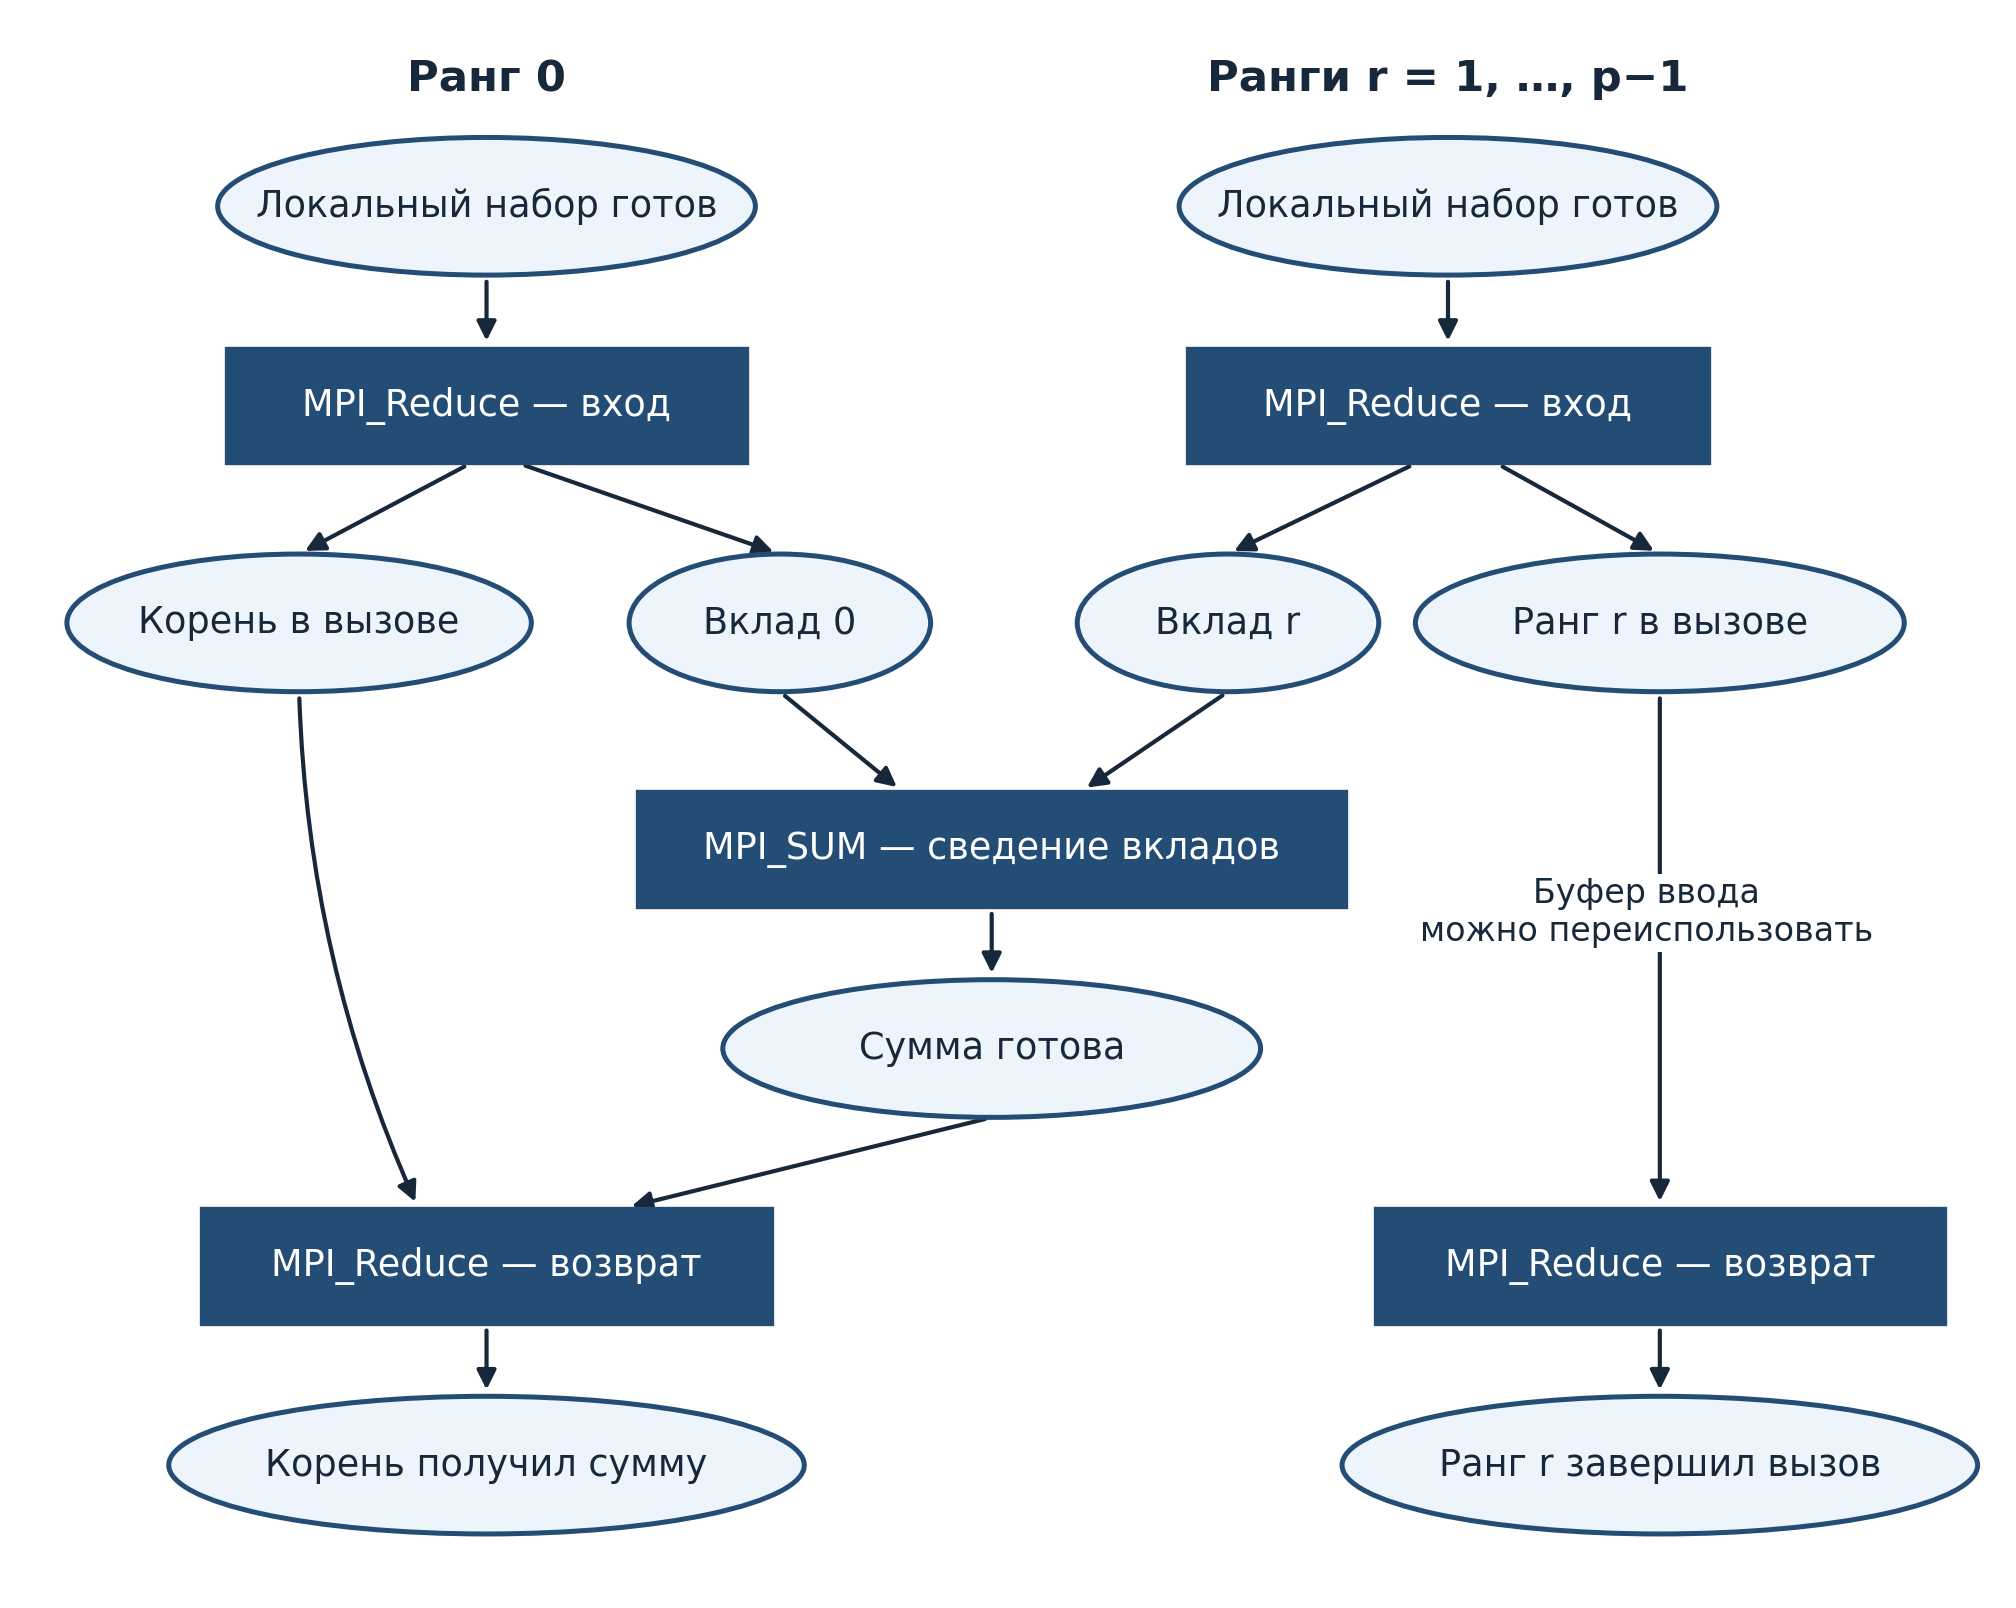
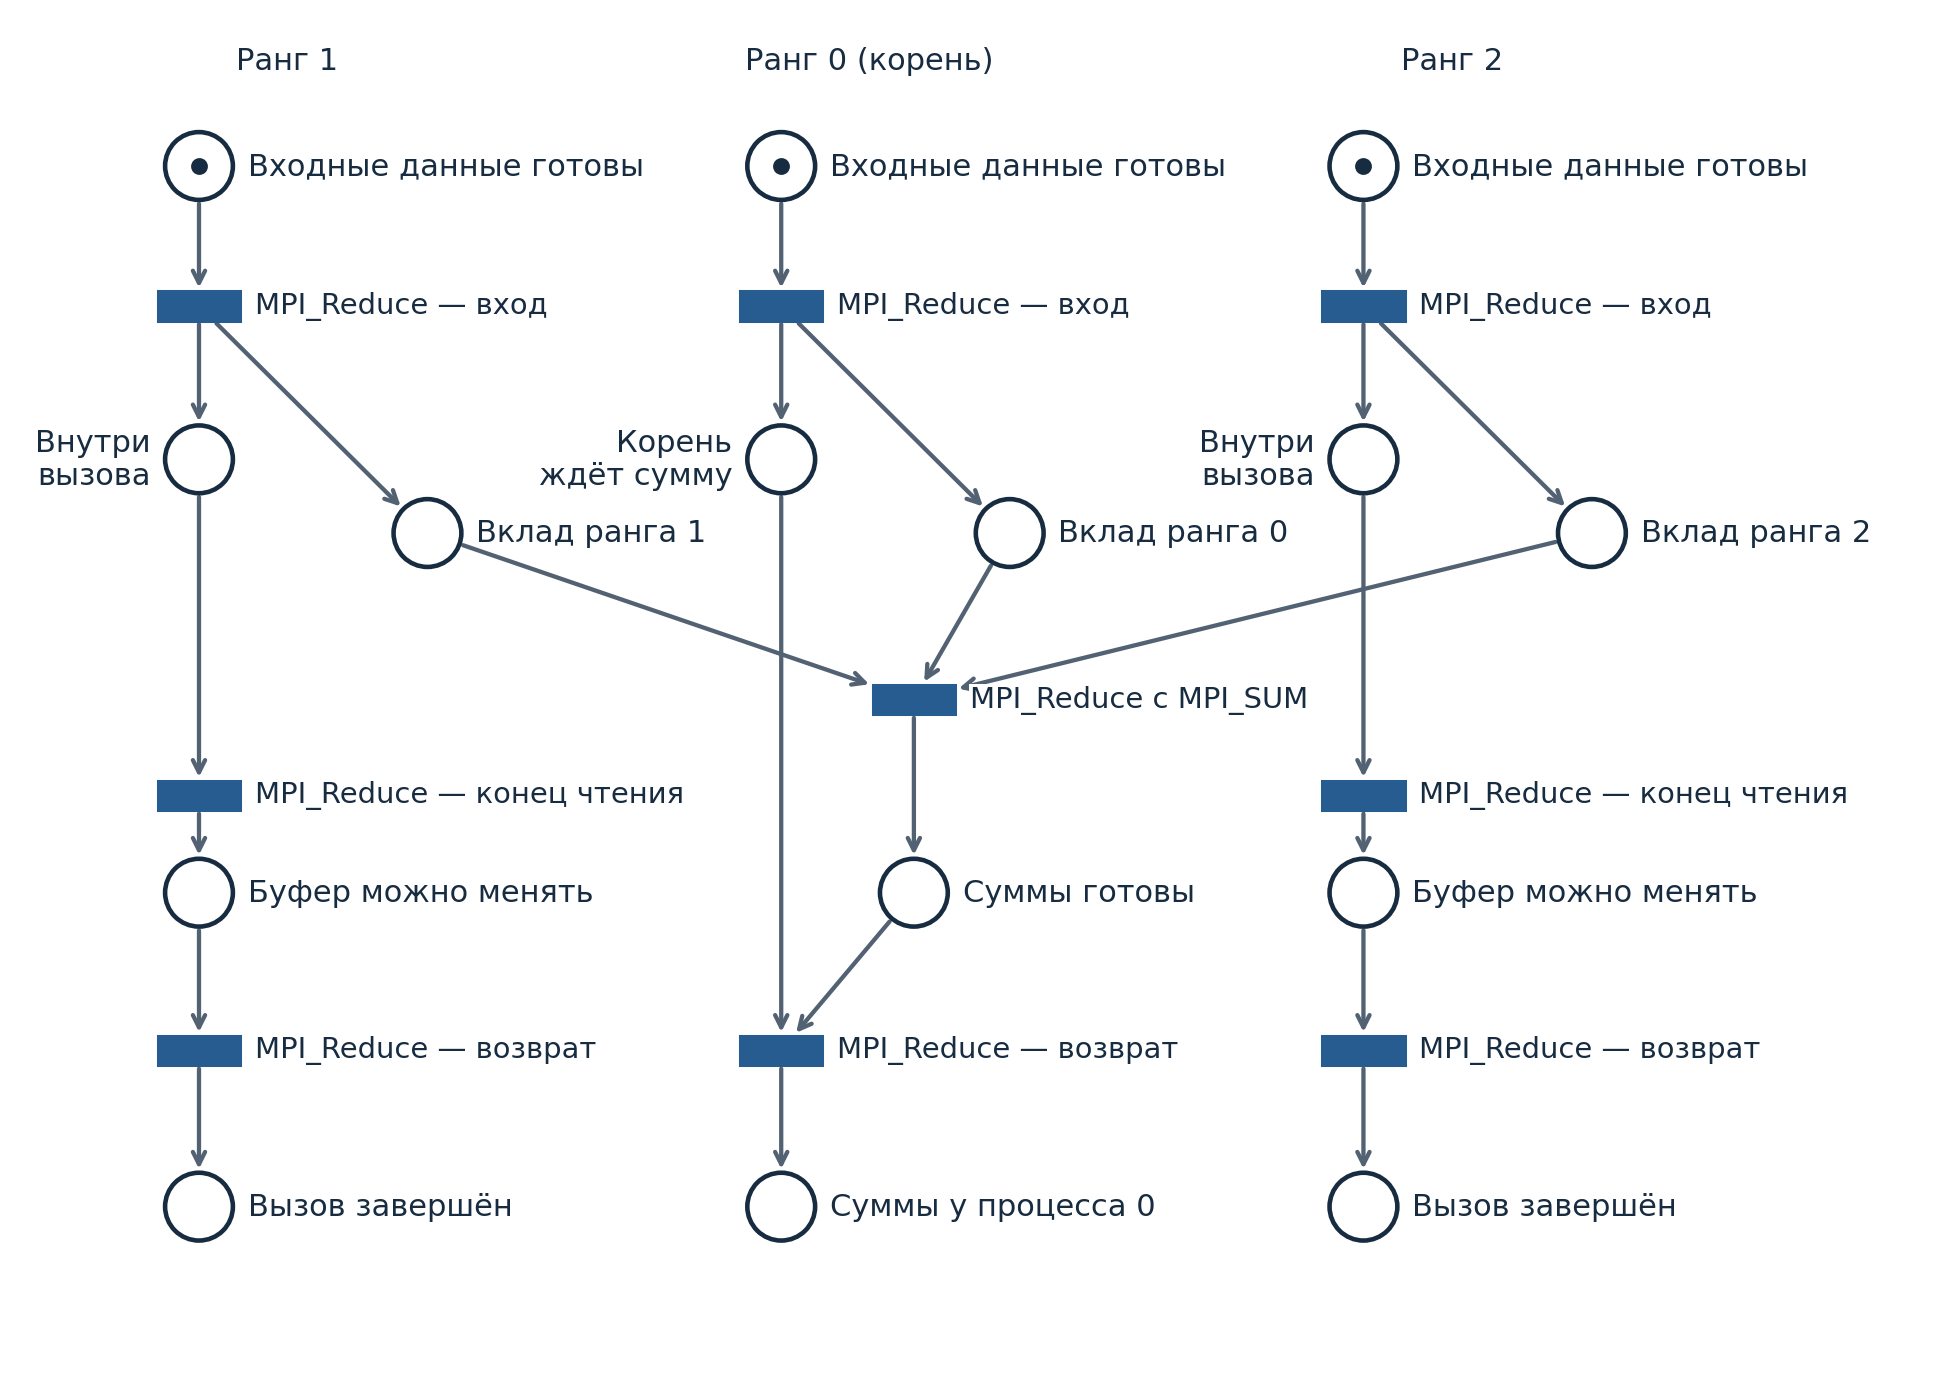
added

diff --git a/lab3/draw_petri.py b/lab3/draw_petri.py
@@ -1,119 +1,109 @@
-"""Draw the colored Petri net of the timed part of the program."""
+"""Сеть Петри коллективного суммирования в ПР № 3."""
 from pathlib import Path
 
 import matplotlib
+
 matplotlib.use("Agg")
 import matplotlib.pyplot as plt
-from matplotlib.patches import Ellipse, FancyArrowPatch, Rectangle
+from matplotlib.patches import Circle, Rectangle
 
 OUT = Path(__file__).resolve().parent / "results"
-BLUE = "#244d76"
-INK = "#17283b"
+RANKS = ((1, 1.35), (0, 5.30), (2, 9.25))
+INK = "#172c40"
+BLUE = "#275c90"
 
 
-def canvas(ymax, size):
-    figure, axes = plt.subplots(figsize=size)
-    axes.set(xlim=(0, 12), ylim=(0, ymax))
-    axes.axis("off")
-    return figure, axes
+def draw(filename, height, positions, transitions, edges, marking, labels, notes, left_labels):
+    # Как в ПР № 1 и № 2: координаты, круги, прямоугольники и дуги.
+    width = 13.2
+    fig, ax = plt.subplots(figsize=(width * 0.67, height * 0.67))
+    fig.subplots_adjust(left=0, right=1, bottom=0, top=1)
+    ax.set(xlim=(0, width), ylim=(0, height), aspect="equal")
+    ax.axis("off")
+
+    nodes = {}
+    for name, (x, y) in positions.items():
+        circle = Circle((x, y), .23, facecolor="white", edgecolor=INK, lw=1.5, zorder=3)
+        ax.add_patch(circle)
+        nodes[name] = circle
+        if marking.get(name) == 1:
+            ax.plot(x, y, "o", color=INK, markersize=4.5, zorder=4)
+        if marking.get(name, 0) > 1:
+            ax.text(x, y, str(marking[name]), ha="center", va="center", zorder=4)
+        if name in left_labels:
+            ax.text(x - .33, y, labels[name], ha="right", va="center", fontsize=10, color=INK)
+        else:
+            ax.text(x + .33, y, labels[name], va="center", fontsize=10, color=INK)
+
+    for name, (x, y, label) in transitions.items():
+        bar = Rectangle((x - .28, y - .1), .56, .2, color=BLUE, zorder=3)
+        ax.add_patch(bar)
+        nodes[name] = bar
+        ax.text(x + .38, y, label, va="center", fontsize=9.5, color=INK,
+                bbox=dict(facecolor="white", edgecolor="none", pad=.3), zorder=5)
+
+    coords = positions | {name: (x, y) for name, (x, y, _) in transitions.items()}
+    for source, target in edges:
+        ax.annotate("", xy=coords[target], xytext=coords[source],
+                    arrowprops=dict(arrowstyle="->", color="#526273", lw=1.4,
+                                    patchA=nodes[source], patchB=nodes[target],
+                                    shrinkA=1, shrinkB=1), zorder=2)
+
+    for x, y, label in notes:
+        ax.text(x, y, label, ha="center", va="center", fontsize=10, color=INK)
+
+    fig.savefig(OUT / filename, dpi=220)
+    plt.close(fig)
 
 
-def place(axes, x, y, label, width=3.3, initial=False):
-    axes.add_patch(Ellipse((x, y), width, 0.76, fc="#edf4fb",
-                           ec=BLUE, linewidth=1.5, zorder=3))
-    if initial:
-        label += "  ●"
-    axes.text(x, y, label, ha="center", va="center", color=INK, fontsize=11, zorder=4)
+def reduction():
+    positions = {"sum_ready": (6.2, 3.34)}
+    transitions = {"sum": (6.2, 4.65, "MPI_Reduce с MPI_SUM")}
+    edges = [("sum", "sum_ready")]
+    marking = {}
+    labels = {"sum_ready": "Суммы готовы"}
+    notes = []
+    left_labels = set()
 
+    for rank, x in RANKS:
+        ready, waiting, contribution, done, buffer_available = (
+            f"{state}_{rank}" for state in
+            ("ready", "waiting", "contribution", "done", "buffer_available")
+        )
+        enter, release, ret = (f"{step}_{rank}" for step in ("enter", "release", "return"))
+        positions.update({
+            ready: (x, 8.27), waiting: (x, 6.28),
+            contribution: (x + 1.55, 5.78), done: (x, 1.21),
+        })
+        labels.update({
+            ready: "Входные данные готовы",
+            waiting: "Корень\nждёт сумму" if rank == 0 else "Внутри\nвызова",
+            contribution: f"Вклад ранга {rank}",
+            done: "Суммы у процесса 0" if rank == 0 else "Вызов завершён",
+        })
+        left_labels.add(waiting)
+        transitions[enter] = (x, 7.32, "MPI_Reduce — вход")
+        transitions[ret] = (x, 2.27, "MPI_Reduce — возврат")
+        marking[ready] = 1
+        title = f"Ранг {rank}" + (" (корень)" if rank == 0 else "")
+        notes.append((x + .6, 8.98, title))
+        edges.extend([
+            (ready, enter), (enter, waiting), (enter, contribution),
+            (contribution, "sum"), (ret, done),
+        ])
+        if rank == 0:
+            edges.extend([(waiting, ret), ("sum_ready", ret)])
+        else:
+            positions[buffer_available] = (x, 3.34)
+            labels[buffer_available] = "Буфер можно менять"
+            transitions[release] = (x, 4.0, "MPI_Reduce — конец чтения")
+            edges.extend([
+                (waiting, release), (release, buffer_available), (buffer_available, ret),
+            ])
 
-def transition(axes, x, y, label, width=3.2):
-    axes.add_patch(Rectangle((x-width/2, y-0.32), width, 0.64,
-                             fc=BLUE, ec=BLUE, zorder=3))
-    axes.text(x, y, label, ha="center", va="center", color="white", fontsize=11, zorder=4)
-
-
-def arrow(axes, start, end, label="", bend=0, label_position=None):
-    axes.add_patch(FancyArrowPatch(start, end, arrowstyle="-|>",
-                                  mutation_scale=12, color=INK, linewidth=1.25,
-                                  connectionstyle=f"arc3,rad={bend}", zorder=2))
-    if label:
-        axes.text(*label_position, label, ha="center", va="center", fontsize=10,
-                  color=INK, bbox=dict(facecolor="white", edgecolor="none", pad=1))
-
-
-def save(figure, filename):
-    figure.subplots_adjust(left=0.015, right=0.985, top=0.99, bottom=0.01)
-    figure.savefig(OUT / filename, dpi=240)
-    plt.close(figure)
-
-
-def draw_cycle():
-    figure, axes = canvas(11.4, (8.4, 8.3))
-    x = 5.5
-    place(axes, x, 10.8, "Готов к итерации (r, k)", initial=True)
-    transition(axes, x, 9.75, "MPI_Barrier — вход")
-    place(axes, x, 8.7, "Ждёт в MPI_Barrier")
-    transition(axes, x, 7.65, "Все процессы вошли")
-    place(axes, x, 6.6, "Выход разрешён")
-    transition(axes, x, 5.55, "MPI_Barrier — возврат")
-    place(axes, x, 4.5, "Блоки готовы к сумме")
-    transition(axes, x, 3.45, "MPI_Reduce / MPI_SUM\nподсеть на рисунке 2", width=3.7)
-    place(axes, x, 2.4, "Измерение завершено")
-    transition(axes, x, 1.35, "Следующая итерация")
-    transition(axes, 9.6, 2.4, "Завершить цикл")
-    place(axes, 9.6, 1.25, "Готов к MPI_Reduce\nс MPI_MAX", width=3.35)
-    for top, bottom in zip((10.8, 9.75, 8.7, 7.65, 6.6, 5.55, 4.5),
-                           (9.75, 8.7, 7.65, 6.6, 5.55, 4.5, 3.45)):
-        arrow(axes, (x, top-.38), (x, bottom+.38))
-    arrow(axes, (x, 3.07), (x, 2.78), "MPI_Wtime: стоп", label_position=(7.2, 2.94))
-    arrow(axes, (x, 2.02), (x, 1.67), "k < 9", label_position=(6.25, 1.85))
-    arrow(axes, (7.15, 2.4), (8.0, 2.4), "k = 9", label_position=(7.58, 2.68))
-    arrow(axes, (9.6, 2.08), (9.6, 1.63))
-    arrow(axes, (3.9, 1.35), (1.4, 1.35))
-    arrow(axes, (1.4, 1.35), (1.4, 10.8))
-    arrow(axes, (1.4, 10.8), (3.85, 10.8), "k + 1", label_position=(2.6, 11.05))
-    axes.text(8.7, 7.65, "По одной метке\nот каждого ранга r", va="center", ha="center", fontsize=11)
-    axes.text(8.65, 4.5, "MPI_Wtime: старт,\nзатем локальная сумма¹", va="center",
-              ha="center", color=INK, fontsize=11)
-    axes.text(0.35, 0.4, "¹ Только в опытах с фиксированным числом наборов.", fontsize=10)
-    save(figure, "petri-cycle.png")
-
-
-def draw_reduce():
-    figure, axes = canvas(8.7, (8.4, 6.7))
-    for x, rank in ((2.8, "Ранг 0"), (8.7, "Ранги r = 1, …, p−1")):
-        axes.text(x, 8.35, rank, ha="center", va="center", color=INK,
-                  fontsize=13, weight="bold")
-        place(axes, x, 7.65, "Локальный набор готов")
-        transition(axes, x, 6.55, "MPI_Reduce — вход")
-        arrow(axes, (x, 7.27), (x, 6.87))
-    place(axes, 1.65, 5.35, "Корень в вызове", width=2.85)
-    place(axes, 4.6, 5.35, "Вклад 0", width=1.85)
-    place(axes, 7.35, 5.35, "Вклад r", width=1.85)
-    place(axes, 10, 5.35, "Ранг r в вызове", width=3)
-    arrow(axes, (2.7, 6.23), (1.65, 5.73))
-    arrow(axes, (3.0, 6.23), (4.6, 5.73))
-    arrow(axes, (8.5, 6.23), (7.35, 5.73))
-    arrow(axes, (9.0, 6.23), (10, 5.73))
-    transition(axes, 5.9, 4.1, "MPI_SUM — сведение вкладов", width=4.35)
-    arrow(axes, (4.6, 4.97), (5.35, 4.42))
-    arrow(axes, (7.35, 4.97), (6.45, 4.42))
-    place(axes, 5.9, 3.0, "Сумма готова")
-    arrow(axes, (5.9, 3.78), (5.9, 3.38))
-    transition(axes, 2.8, 1.8, "MPI_Reduce — возврат", width=3.5)
-    transition(axes, 10, 1.8, "MPI_Reduce — возврат", width=3.5)
-    arrow(axes, (1.65, 4.97), (2.38, 2.12), bend=.1)
-    arrow(axes, (5.9, 2.62), (3.65, 2.12))
-    arrow(axes, (10, 4.97), (10, 2.12), "Буфер ввода\nможно переиспользовать",
-          label_position=(9.92, 3.75))
-    place(axes, 2.8, .7, "Корень получил сумму", width=3.9)
-    place(axes, 10, .7, "Ранг r завершил вызов", width=3.9)
-    arrow(axes, (2.8, 1.48), (2.8, 1.08))
-    arrow(axes, (10, 1.48), (10, 1.08))
-    save(figure, "petri-reduce.png")
+    draw("petri-reduce.png", 9.4, positions, transitions, edges, marking, labels, notes, left_labels)
 
 
 if __name__ == "__main__":
     OUT.mkdir(exist_ok=True)
-    draw_cycle()
-    draw_reduce()
+    reduction()

diff --git a/lab3/README.md b/lab3/README.md
@@ -9,6 +9,12 @@ mpirun -np 4 ./lab3/lab3
 
 Для четырёх процессов программа выводит девять сумм: `6 10 14 18 22 26 30 34 38`.
 
-Для отчёта нужно показать пример запуска, описать сеть Петри и сравнить время на разном числе процессов. В сети подписаны вход и возврат из `MPI_Barrier` и `MPI_Reduce`, ожидание других процессов и повторение итераций. Ускорение считают на фиксированной нагрузке как отношение времени на одном процессе ко времени на `p` процессах. В режиме задания нагрузка меняется вместе с `p`, поэтому для ускорения используется отдельная серия на 32 наборах фиксированной длины.
+Для отчёта нужно показать пример запуска, описать сеть Петри и сравнить время на разном числе процессов. Ускорение считают на фиксированной нагрузке как отношение времени на одном процессе ко времени на `p` процессах. В режиме задания нагрузка меняется вместе с `p`, поэтому для ускорения используется отдельная серия на 32 наборах фиксированной длины.
 
 `python3 lab3/bench.py` запускает облегчённую серию на 1, 2 и 4 процессах и сохраняет её в `lab3/results/quick/`. Полная серия до 32 процессов включается параметром `--full`. Она может загружать все ядра, а одни только массивы занимают до 992 МиБ.
+
+## Сеть Петри
+
+[Сеть коллективного суммирования](results/petri-reduce.png) описывает вариант 7. В начале у каждого ранга есть фишка в позиции «Входные данные готовы». Переход `MPI_Reduce` с `MPI_SUM` забирает фишки всех трёх вкладов. Возврат процесса 0 требует фишку в позиции «Суммы готовы». Рабочий ранг может вернуться после того, как MPI закончит читать его входной буфер.
+
+Схема строится командой `python3 lab3/draw_petri.py`.
